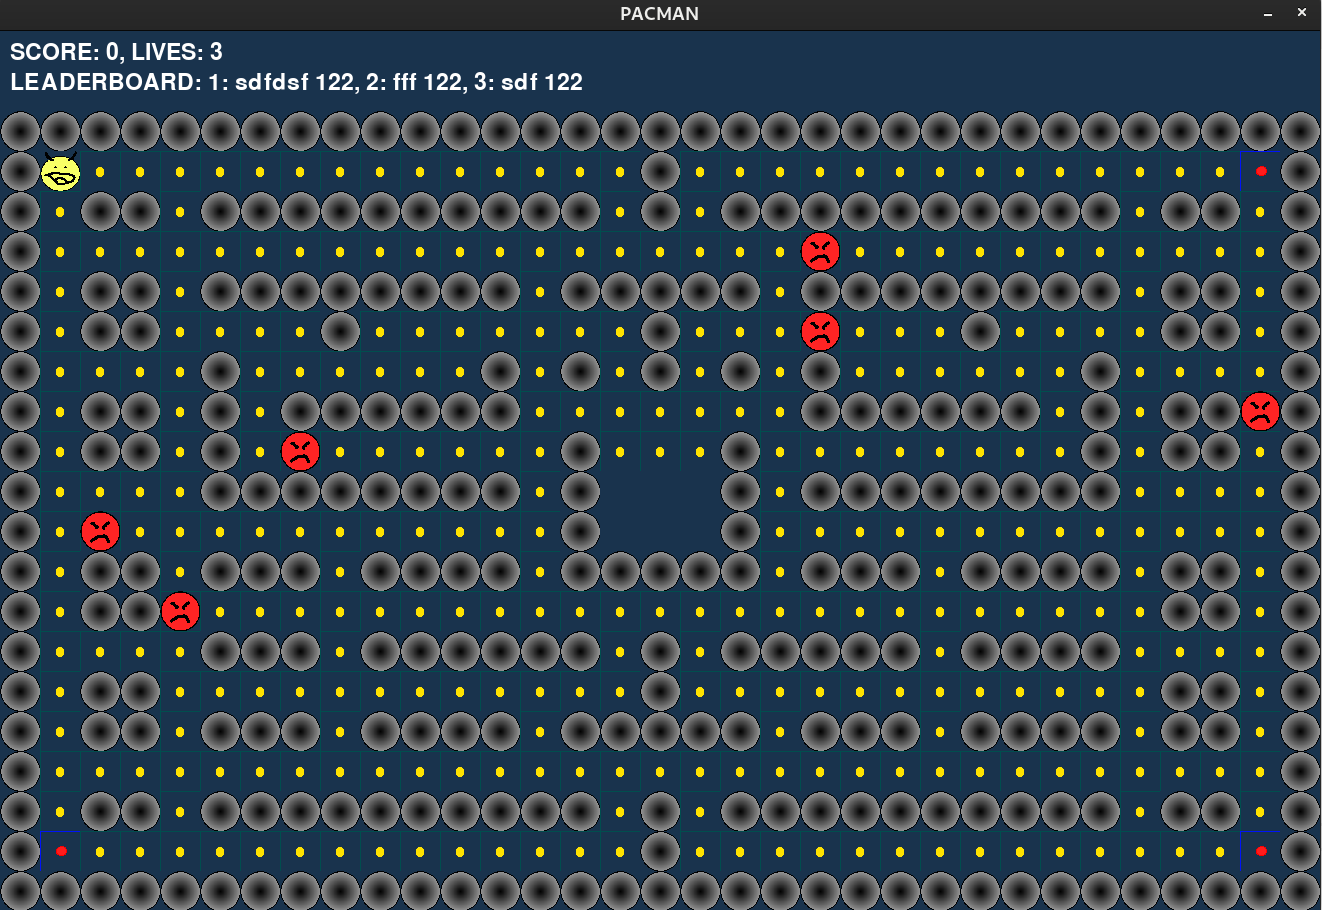
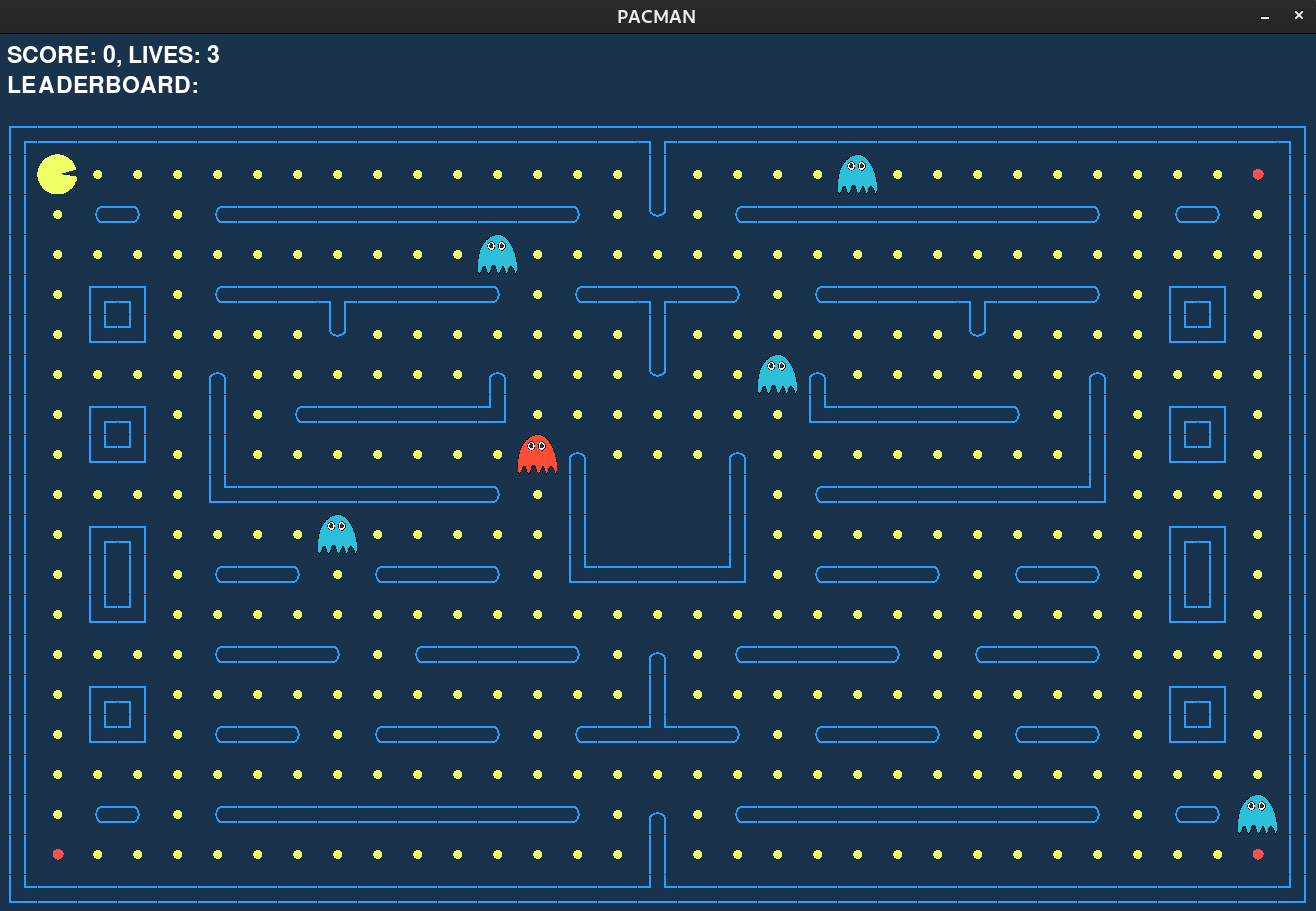
add docs

diff --git a/dokumentaatio/kayttoohje.md b/dokumentaatio/kayttoohje.md
@@ -25,6 +25,6 @@ Pelin alussa pelaajaa pyydetään luomaan pelaajatunnus. Käyttäjätunnukseen t
 
 ## Kirjautumisen jälkeen
 
-Peli alkanee. Tämä on vielä vähän raffi visuaalinen ilme, mutta homma ei ole vielä valmis.
+Peli alkanee. Kenttä näyttää allaolevan kuvan mukaiselta. Pacin suu liikkuu kiinni ja auki ja vihollisten värit arvotaan pienestä joukosta kentän alkaessa.
 
 ![Kuva](./images/pacman.png)
